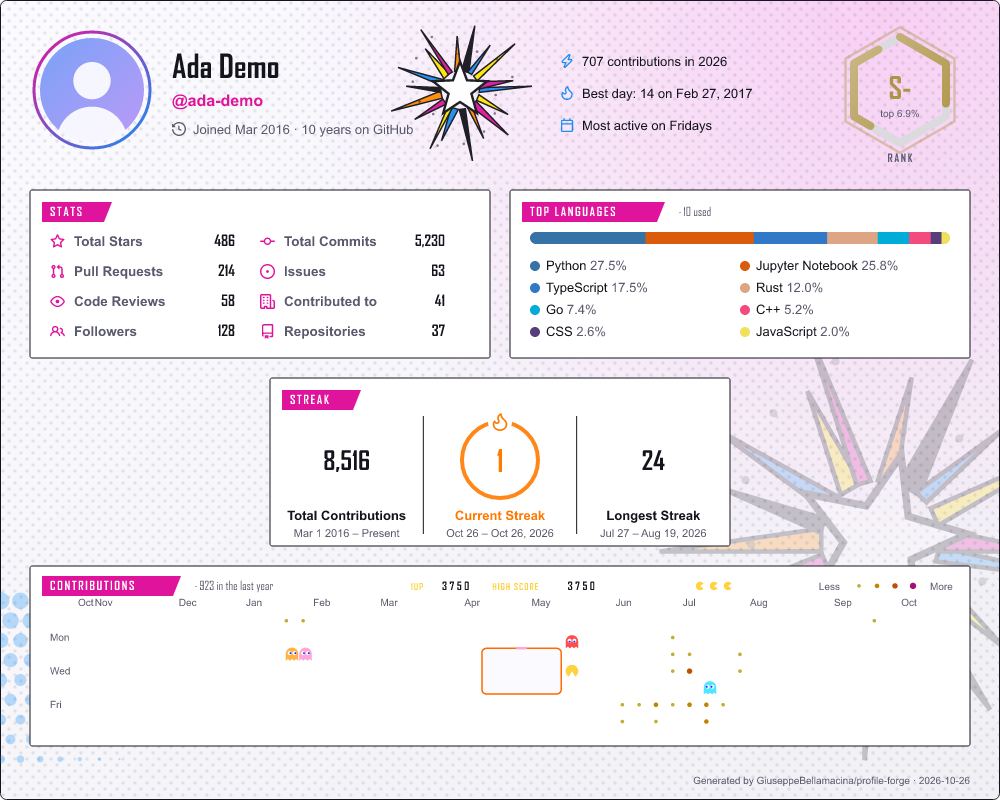
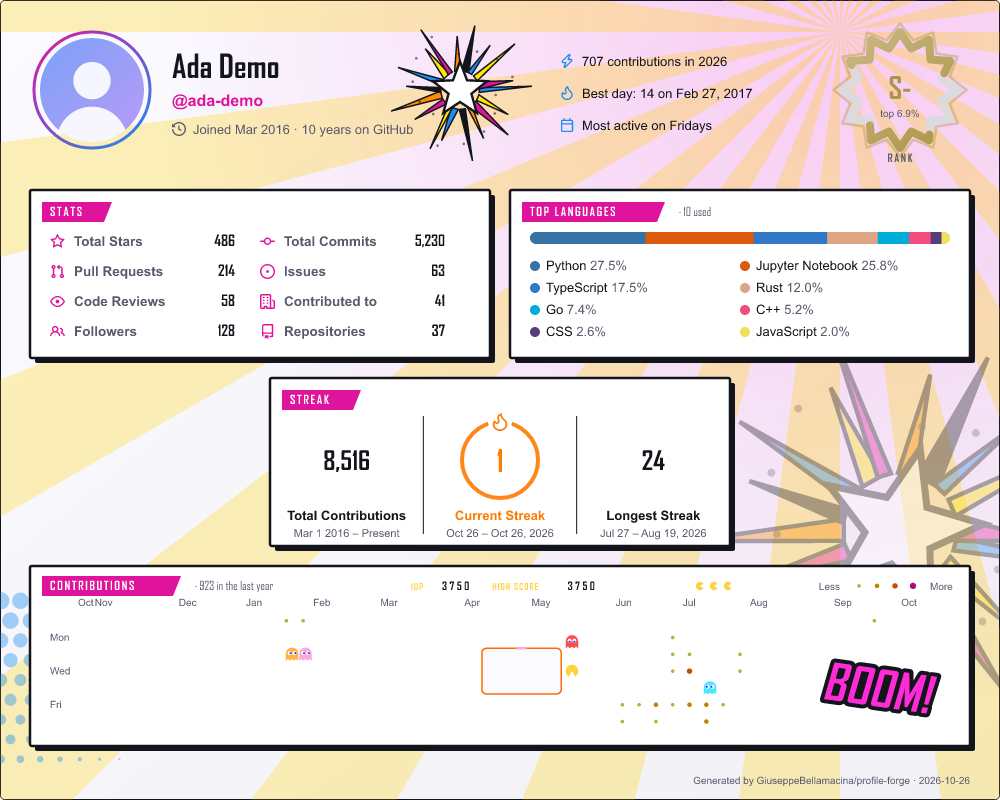
Pop art: pop panels, rays behind the card, a burst rank shape, words on the card (decor text); hero-x uses them

Changed region(s): [[0.0, 0.0, 1.0, 1.0]]

diff --git a/src/render.js b/src/render.js
@@ -132,6 +132,7 @@ const panel = (x, y, w, h, c) => {
     const n = 12;
     return `<path d="M${x} ${y}H${x + w - n}L${x + w} ${y + n}V${y + h}H${x + n}L${x} ${y + h - n}Z" fill="${c.panel}" stroke="${c.border}"/><path d="M${x + w - 54} ${y + h}H${x + w - 14}" stroke="${c.accent}" stroke-width="3"/>`;
   }
+  if (c.panelStyle === "pop") return `<rect x="${x + 5}" y="${y + 5}" width="${w}" height="${h}" rx="2" fill="${c.border}"/><rect x="${x}" y="${y}" width="${w}" height="${h}" rx="2" fill="${c.panel}" stroke="${c.border}" stroke-width="2.5"/>`;
   return `<rect x="${x}" y="${y}" width="${w}" height="${h}" rx="${c.panelStyle === "square" ? 2 : 14}" fill="${c.panel}" stroke="${c.border}"/>`;
 };
 const heading = (x, y, text, c, extra = "") => {
@@ -1500,6 +1501,34 @@ export function render(d, { theme = "dark", t, fontCss = "", k = normalize(), co
     crosses: [20, 20, 1, 0.2, `<path d="M10 7V13M7 10H13" fill="none" stroke="${pcol}"/>`],
   };
   const pat = PATTERNS[bg.pattern];
+  // rays: wedges fanning out from the glow, like the speed lines of a comic (patternSize: the narrower, the more of them)
+  const rays = (() => {
+    if (bg.pattern !== "rays") return "";
+    const cx = (bg.glowX / 100) * W, cy = (bg.glowY / 100) * SH, n = Math.max(6, Math.round(2400 / bg.patternSize)), far = Math.hypot(W, SH) * 1.2;
+    // every wedge is cut to the card here (Sutherland-Hodgman): a path reaching far outside the clip made the renderer behind the PNGs panic
+    const cut = (poly, inside, cross) => {
+      const out = [];
+      poly.forEach((p, k) => {
+        const q = poly[(k + 1) % poly.length];
+        if (inside(p)) out.push(p);
+        if (inside(p) !== inside(q)) out.push(cross(p, q));
+      });
+      return out;
+    };
+    const edges = [
+      [(p) => p[0] >= 0, (p, q) => [0, p[1] + ((q[1] - p[1]) * (0 - p[0])) / (q[0] - p[0])]],
+      [(p) => p[0] <= W, (p, q) => [W, p[1] + ((q[1] - p[1]) * (W - p[0])) / (q[0] - p[0])]],
+      [(p) => p[1] >= 0, (p, q) => [p[0] + ((q[0] - p[0]) * (0 - p[1])) / (q[1] - p[1]), 0]],
+      [(p) => p[1] <= SH, (p, q) => [p[0] + ((q[0] - p[0]) * (SH - p[1])) / (q[1] - p[1]), SH]],
+    ];
+    const wedge = Array.from({ length: n }, (_, i) => {
+      const a0 = (i * 2 * Math.PI) / n, a1 = a0 + Math.PI / n;
+      let poly = [[cx, cy], [cx + far * Math.cos(a0), cy + far * Math.sin(a0)], [cx + far * Math.cos(a1), cy + far * Math.sin(a1)]];
+      for (const [inside, cross] of edges) poly = poly.length ? cut(poly, inside, cross) : poly;
+      return poly.length > 2 ? `M${poly.map(([x, y]) => `${r3(x)} ${r3(y)}`).join("L")}Z` : "";
+    }).join("");
+    return `<g opacity="${bg.patternOpacity ?? 0.1}"><path d="${wedge}" fill="${pcol}"/></g>`;
+  })();
   const patDef = pat
     ? `<pattern id="pat" width="${pat[0]}" height="${pat[1]}" patternUnits="userSpaceOnUse" patternTransform="scale(${r3((pat[2] * bg.patternSize) / 100)})">${pat[4]}</pattern>`
     : "";
@@ -1513,9 +1542,16 @@ export function render(d, { theme = "dark", t, fontCss = "", k = normalize(), co
         const a = it.color ?? c.accent2, b = it.color2 ?? c.accent;
         const art = { speed: it.speed, still: A.t !== undefined };
         const picture = it.image ? images[it.image] : "";
+        // a word: bold, slanted, the fill in `color` (the accent colour) and the outline in `color2` (the text colour on a light card, the background on a dark one)
+        const word = () => {
+          const fs = Math.min(64, Math.round(165 / Math.max(3, it.text.length)));
+          return `<text x="50" y="${r3(50 + fs * 0.34)}" text-anchor="middle" font-size="${fs}" font-weight="800" font-family="${FD}" fill="${it.color ?? c.accent}" stroke="${it.color2 ?? (c.base === "light" ? c.text : c.bg1)}" stroke-width="${r3(fs * 0.16)}" stroke-linejoin="round" paint-order="stroke" transform="translate(50 50) skewX(-8) translate(-50 -50)">${esc(it.text)}</text>`;
+        };
         const inner = it.motif
           ? MOTIFS[it.motif](a, b, art)
-          : picture ? inlineSvg(picture, { prefix: `dc${n}`, color: it.color ? a : null, ...art }) ?? `<image href="${picture}" width="100" height="100" preserveAspectRatio="xMidYMid meet"/>` : "";
+          : it.text
+            ? word()
+            : picture ? inlineSvg(picture, { prefix: `dc${n}`, color: it.color ? a : null, ...art }) ?? `<image href="${picture}" width="100" height="100" preserveAspectRatio="xMidYMid meet"/>` : "";
         if (!inner) return "";
         const sc = r3((it.size / 100) * W / 100);
         const piece = `<g transform="translate(${r3((it.x / 100) * W)} ${r3(it.anchor === "bottom" ? SH - (it.y / 100) * W : (it.y / 100) * W)}) rotate(${it.rotate}) scale(${it.flip ? -sc : sc} ${sc}) translate(-50 -50)" opacity="${it.opacity}">${inner}</g>`;
@@ -1532,7 +1568,7 @@ export function render(d, { theme = "dark", t, fontCss = "", k = normalize(), co
   A.dt = 0;
   const artIn = k.decor.length ? A.a(Math.min(Math.max(0, ...items.map((it) => it.delay)) + 3, DURATION - 0.8), 0.8, { o: 0 }) : "";
   const over = k.decor.some((it) => it.layer === "front") ? `<g clip-path="url(#dc-clip)"><g${artIn}>${decorSvg("front")}</g></g>` : ""; // built here: its loops add to the style block
-  const under = `${bgImage}${bg.glow ? card("url(#glow)") : ""}${pat ? `<g opacity="${bg.patternOpacity ?? pat[3]}">${card("url(#pat)")}</g>` : ""}${k.decor.some((it) => it.layer === "back") ? `<g${artIn}>${decorSvg("back")}</g>` : ""}`;
+  const under = `${bgImage}${bg.glow ? card("url(#glow)") : ""}${pat ? `<g opacity="${bg.patternOpacity ?? pat[3]}">${card("url(#pat)")}</g>` : ""}${rays}${k.decor.some((it) => it.layer === "back") ? `<g${artIn}>${decorSvg("back")}</g>` : ""}`;
   return `<svg xmlns="http://www.w3.org/2000/svg" width="${W}" height="${SH}" viewBox="0 0 ${W} ${SH}" font-family="${FB}" role="img" aria-label="GitHub profile card for ${esc(d.login)}">
   <title>${esc(d.name)} (@${esc(d.login)}) — GitHub profile</title>
   <defs>

diff --git a/src/config.js b/src/config.js
@@ -44,8 +44,8 @@ export const DEFAULTS = {
 
 const FACTS = ["contributionsThisYear", "bestDay", "busiestWeekday", "currentStreak", "longestStreak", "topLanguage", "stars", "followers"];
 const ENUMS = {
-  locale: LOCALES, "card.background.pattern": ["none", "dots", "grid", "diagonal", "halftone", "scanlines", "stripes", "hex", "circuit", "crosses"], "card.background.imageFit": ["cover", "contain"], "card.panels": ["rounded", "square", "notched"], "card.titles": ["plain", "tag"],
-  "header.avatar": ["circle", "rounded", "hide"], "header.frame": ["none", "ring", "double", "dashed", "neon", "pixel", "glitch", "laurel", "flames", "sakura", "stars", "halo", "aurora", "orbit", "prism", "auto"], "header.frameAnimation": ["default", "none", "spin", "pulse", "twinkle"], "header.rankStyle": ["ring", "hexagon", "shield"], "header.rankIcon": ["level", "percentile", "github"], "header.rankEffect": ["auto", "none", "halo", "shine", "embers", "rainbow"],
+  locale: LOCALES, "card.background.pattern": ["none", "dots", "grid", "diagonal", "halftone", "scanlines", "stripes", "hex", "circuit", "crosses", "rays"], "card.background.imageFit": ["cover", "contain"], "card.panels": ["rounded", "square", "notched", "pop"], "card.titles": ["plain", "tag"],
+  "header.avatar": ["circle", "rounded", "hide"], "header.frame": ["none", "ring", "double", "dashed", "neon", "pixel", "glitch", "laurel", "flames", "sakura", "stars", "halo", "aurora", "orbit", "prism", "auto"], "header.frameAnimation": ["default", "none", "spin", "pulse", "twinkle"], "header.rankStyle": ["ring", "hexagon", "shield", "burst"], "header.rankIcon": ["level", "percentile", "github"], "header.rankEffect": ["auto", "none", "halo", "shine", "embers", "rainbow"],
   "stats.numberFormat": ["long", "short"], "streak.mode": ["daily", "weekly"],
   "languages.layout": ["bar", "compact", "donut", "donut-vertical", "pie"], "languages.statsFormat": ["percentages", "bytes"],
   "trophies.align": ["center", "left"], "marquee.order": ["shuffle", "config", "name"], "trophies.sort": ["default", "rank", "name"], "orgs.sort": ["contributions", "popularity", "custom"], "orgs.mode": ["static", "scroll"], "orgs.direction": ["left", "right"], "heatmap.snakeStyle": ["classic", "rainbow", "glow"],
@@ -124,7 +124,7 @@ const must = (path, list, valid) => {
 // card.decor: up to 12 pieces of art. Position and size are percents of the card's WIDTH (1 = 10 px on the standard card): x from the
 // left, y from the top (or from the bottom with anchor: bottom), so a piece keeps its place whatever the height of the card.
 export const DECOR_MAX = 12;
-const DECOR_DEFAULTS = { motif: null, image: null, x: 50, y: 20, anchor: "top", size: 20, speed: 1, rotate: 0, opacity: 0.5, color: null, color2: null, layer: "back", flip: false, motion: "none" };
+const DECOR_DEFAULTS = { motif: null, image: null, text: null, x: 50, y: 20, anchor: "top", size: 20, speed: 1, rotate: 0, opacity: 0.5, color: null, color2: null, layer: "back", flip: false, motion: "none" };
 const DECOR_ENUMS = { anchor: ["top", "bottom"], layer: ["back", "front"], motion: ["none", "float", "pulse"] };
 const DECOR_RANGES = { x: [-50, 150], y: [-50, 200], size: [2, 150], speed: [0.25, 4], rotate: [-360, 360], opacity: [0, 1] };
 function decorList(list) {
@@ -135,7 +135,8 @@ function decorList(list) {
     if (!isPlain(it)) throw new Error(`Config "${p}" must be an object`);
     for (const key of Object.keys(it)) if (!(key in DECOR_DEFAULTS)) throw new Error(`Unknown config key "${p}.${key}". Valid keys: ${Object.keys(DECOR_DEFAULTS).join(", ")}`);
     const o = { ...DECOR_DEFAULTS, ...it };
-    if (!o.motif === !o.image) throw new Error(`Config "${p}" needs exactly one of "motif" and "image"`);
+    if ([o.motif, o.image, o.text].filter(Boolean).length !== 1) throw new Error(`Config "${p}" needs exactly one of "motif", "image" and "text"`);
+    if (o.text !== null && (typeof o.text !== "string" || o.text.length > 24)) throw new Error(`Config "${p}.text" must be a text of at most 24 characters`);
     if (o.motif && !MOTIF_NAMES.includes(o.motif)) throw new Error(`Config "${p}.motif": unknown motif "${o.motif}". Available: ${MOTIF_NAMES.join(", ")}`);
     if (o.image !== null && typeof o.image !== "string") throw new Error(`Config "${p}.image" must be a path`);
     for (const [key, [lo, hi]] of Object.entries(DECOR_RANGES)) {

diff --git a/test/stats.test.js b/test/stats.test.js
@@ -694,3 +694,18 @@ test("a background colour override replaces the gradient of the theme, a gradien
   assert.ok(!own.includes('gradientTransform="rotate(60') && own.includes('<stop offset="0" stop-color="#224466"/>'), "the new colour is the background");
   assert.ok(view({ bg_color: "224466", bg_gradient: "90,112233,445566" }).includes('stop-color="#112233"'), "an explicit gradient still wins");
 });
+
+test("pop art: pop panels, rays behind, a burst rank and a word on the card", () => {
+  const view = (card, header) => { const [d, k] = make({ layout: ["header", "stats"], card, ...(header && { header }) }); return render(d, { k }); };
+  const pop = view({ panels: "pop", background: { pattern: "rays", patternColor: "ffcf00" }, decor: [{ text: "BOOM!", color: "ff2bd6", layer: "front" }] }, { rankStyle: "burst" });
+  assert.ok(/<rect x="35" y="\d+" width="\d+" height="\d+" rx="2" fill="#/.test(pop) && pop.includes('stroke-width="2.5"'), "a hard shadow behind a thick outline");
+  assert.ok(/<g opacity="0.1"><path d="M[\d. L]+Z/.test(pop) && pop.includes('fill="#ffcf00"'), "wedges in the pattern colour");
+  assert.ok(/>BOOM!<\/text>/.test(pop) && pop.includes('fill="#ff2bd6"') && pop.includes("skewX(-8)"), "the word, slanted, in its colour");
+  assert.ok(/<path d="M\d+ \d+L[\d. L]+Z" fill="none" pathLength="100"/.test(pop), "the rank is a polygon: a burst");
+  assert.throws(() => normalize({ card: { decor: [{ text: "x".repeat(25) }] } }), /at most 24/);
+  assert.throws(() => normalize({ card: { decor: [{ text: "a", motif: "bolt" }] } }), /exactly one/);
+  // the wedges are cut to the card: nothing far outside it (a path far outside its clip crashes the renderer behind the PNGs)
+  const wedges = /<g opacity="0.1"><path d="([^"]+)"/.exec(pop)[1];
+  const nums = wedges.match(/-?[\d.]+/g).map(Number);
+  assert.ok(nums.every((n) => n >= -0.01 && n <= 1000.01), "every point is on the card (x up to 1000, y up to its height, here less than 1000)");
+});

diff --git a/src/ringshape.js b/src/ringshape.js
@@ -16,6 +16,12 @@ const hexVertices = (grow) => Array.from({ length: 6 }, (_, k) => {
   return [CX + R * Math.cos(a), CY + R * Math.sin(a)];
 });
 
+// a comic starburst: 12 spikes, a spike straight up; grown by pushing every vertex outward
+const burstVertices = (grow) => Array.from({ length: 24 }, (_, k) => {
+  const a = ((-90 + 15 * k) * Math.PI) / 180, r = (k % 2 ? 43 : 58) + grow;
+  return [CX + r * Math.cos(a), CY + r * Math.sin(a)];
+});
+
 const bez = (p0, p1, p2, p3, t) => {
   const u = 1 - t;
   return [0, 1].map((i) => u * u * u * p0[i] + 3 * u * u * t * p1[i] + 3 * u * t * t * p2[i] + t * t * t * p3[i]);
@@ -60,7 +66,9 @@ const base = (style) =>
       ? withNormals(resample(shieldPoly(), N))
       : style === "hexagon"
         ? withNormals(resample(hexVertices(0), N))
-        : Array.from({ length: N }, (_, k) => {
+        : style === "burst"
+          ? withNormals(resample(burstVertices(0), N))
+          : Array.from({ length: N }, (_, k) => {
             const a = ((-90 + (360 * k) / N) * Math.PI) / 180;
             return [CX + 50 * Math.cos(a), CY + 50 * Math.sin(a), Math.cos(a), Math.sin(a)];
           }));
@@ -78,6 +86,7 @@ export function ringAt(style, u, off = 0) {
 }
 
 export function ringPath(style, grow = 0) {
+  if (style === "burst") return `M${burstVertices(grow).map(([x, y]) => `${r3(x)} ${r3(y)}`).join("L")}Z`;
   if (style === "hexagon") return `M${hexVertices(grow).map(([x, y]) => `${r3(x)} ${r3(y)}`).join("L")}Z`;
   if (style === "shield") {
     // the offset of the shield by the normals, a point every 4 steps (the joins are rounded by the stroke)

diff --git a/GUIDE.md b/GUIDE.md
@@ -176,7 +176,7 @@ Default: `["header", "about", "workingOn", ["stats", "streak"], "languages", "tr
 |---|---|---|
 | <img src="docs/guide/bg-dots.png"> | <img src="docs/guide/bg-grid.png"> | <img src="docs/guide/bg-diagonal.png"> |
 
-More patterns: `halftone`, `scanlines`, `stripes`, `hex`, `circuit`, `crosses`.
+More patterns: `halftone`, `scanlines`, `stripes`, `hex`, `circuit`, `crosses`, and `rays` (wedges fanning out from the glow, like the speed lines of a comic; `patternSize` is how many).
 
 | `pattern: "halftone"` | `pattern: "hex"` | `pattern: "circuit"` | `pattern: "scanlines"` |
 |---|---|---|---|
@@ -184,12 +184,12 @@ More patterns: `halftone`, `scanlines`, `stripes`, `hex`, `circuit`, `crosses`.
 
 | Key (`card`) | Values | Default |
 |---|---|---|
-| `panels` | `rounded` `square` `notched` (chamfered corners and an accent stroke, like a game HUD) | `rounded` |
+| `panels` | `rounded` `square` `notched` (chamfered corners and an accent stroke, like a game HUD) `pop` (a thick outline and a hard offset shadow, like a comic panel) | `rounded` |
 | `titles` | `plain` `tag` (the title as a label in the accent colour with a slanted end) | `plain` |
 
 | Key (`card.background`) | Values | Default |
 |---|---|---|
-| `pattern` | `none` `dots` `grid` `diagonal` `halftone` `scanlines` `stripes` `hex` `circuit` `crosses` | `none` |
+| `pattern` | `none` `dots` `grid` `diagonal` `halftone` `scanlines` `stripes` `hex` `circuit` `crosses` `rays` | `none` |
 | `patternColor` | colour | the muted colour of the theme |
 | `patternOpacity` | 0–1 | each pattern has its own |
 | `patternSize` | 25–400 (percent) | `100` |
@@ -219,7 +219,7 @@ Up to 12 pieces of art on the card, each one a **motif** of the library or an **
 
 | Key | Values | Default |
 |---|---|---|
-| `motif` or `image` | a motif name (`lightning` `shards` `skyline` `circuit` `glitch` `halftone` `speedlines` `burst` `runes` `hud` `wings` `blade` `moon` `stars` `hexgrid` `reticle` `bolt` `barcode`) or the path of an image | one of them is required |
+| `motif`, `image` or `text` | a motif name (`lightning` `shards` `skyline` `circuit` `glitch` `halftone` `speedlines` `burst` `runes` `hud` `wings` `blade` `moon` `stars` `hexgrid` `reticle` `bolt` `barcode`) or the path of an image, or a word (`text`, at most 24 characters: a bold slanted caption, `color` its fill, `color2` its outline) | one of them is required |
 | `x` `y` | the centre, in percent of the card **width** (1 = 10 px): `x` from the left, `y` from the top, or from the bottom with `anchor: "bottom"`; −50–150 and −50–200 | `50` `20` |
 | `anchor` | `top` `bottom` | `top` |
 | `size` | the width of the piece, percent of the card width, 2–150 | `20` |
@@ -251,7 +251,7 @@ The configurator has an editor for all of this, with a gallery of the motifs, up
 | `facts` | up to 4 of `contributionsThisYear` `bestDay` `busiestWeekday` `currentStreak` `longestStreak` `topLanguage` `stars` `followers` | first three |
 | `frame` | `none` `ring` `double` `dashed` `neon` `pixel` `glitch` `laurel` `flames` `sakura` `stars` `halo` `aurora` `auto` | `ring` |
 | `frameAnimation` | `default` `none` `spin` `pulse` `twinkle` | `default` |
-| `rankStyle` | `ring` `hexagon` `shield` | `ring` |
+| `rankStyle` | `ring` `hexagon` `shield` `burst` (a comic starburst) | `ring` |
 | `rankThickness` | 4–16 | `8` |
 | `rankIcon` | what the rank shows: `level` (S), `percentile` (6.9%), `github` (mark) | `level` |
 | `rankEffect` | `auto` (by level), `none`, `halo`, `shine`, `embers`, `rainbow` | `auto` |
